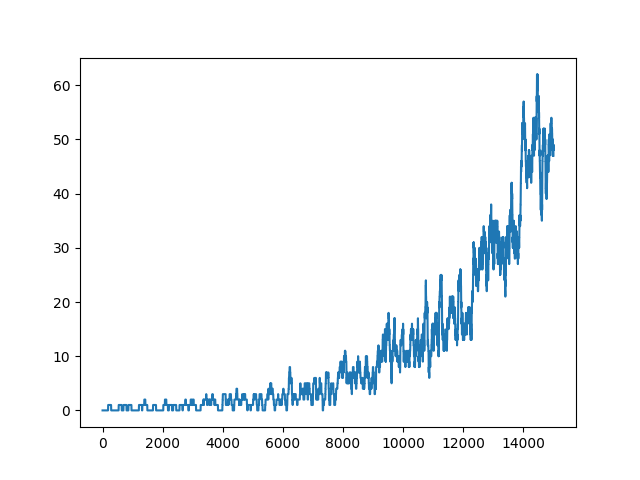
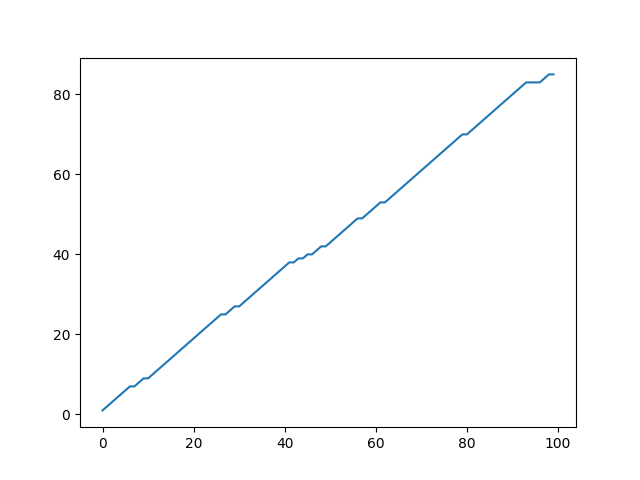
add argv

diff --git a/src/part2/frozen_lake.py b/src/part2/frozen_lake.py
@@ -2,6 +2,7 @@ import gymnasium as gym
 import numpy as np
 import matplotlib.pyplot as plt
 import pickle
+import argparse
 
 class DistanceRewardWrapper(gym.Wrapper):
     def __init__(self, env, gamma=0.95):
@@ -45,6 +46,7 @@ class DistanceRewardWrapper(gym.Wrapper):
         return new_state, shaped_reward, terminated, truncated, info
 
 
+
 def print_success_rate(rewards_per_episode):
     """Calculate and print the success rate of the agent."""
     total_episodes = len(rewards_per_episode)
@@ -55,13 +57,7 @@ def print_success_rate(rewards_per_episode):
 
 def run(episodes, is_training=True, render=False):
 
-    env = gym.make(
-    "FrozenLake-v1",
-    map_name="8x8",
-    is_slippery=True,
-    render_mode="ansi" if render else None,
-    )
-
+    env = gym.make('FrozenLake-v1', map_name="8x8", is_slippery=True, success_rate=0.75, render_mode='ansi' if render else None)
     env = DistanceRewardWrapper(env)
 
     if(is_training):
@@ -136,5 +132,17 @@ def run(episodes, is_training=True, render=False):
         f.close()
 
 if __name__ == '__main__':
-    run(15000, is_training=True, render=False)
+
+    parser = argparse.ArgumentParser(description="Car Agent Runner")
+    parser.add_argument('--train', action='store_true', help='Run in training mode')
+    parser.add_argument('--episodes', type=int, default=15000, help='Number of episodes to run') 
+    parser.add_argument('--render', action='store_true', help='Render the environment')
+
+    args = parser.parse_args()
+
+    print(args.train)
+
+    run(args.episodes, is_training=args.train, render=args.render)
+
+    # run(15000, is_training=True, render=False)
     # run(1000, is_training=False, render=True)
